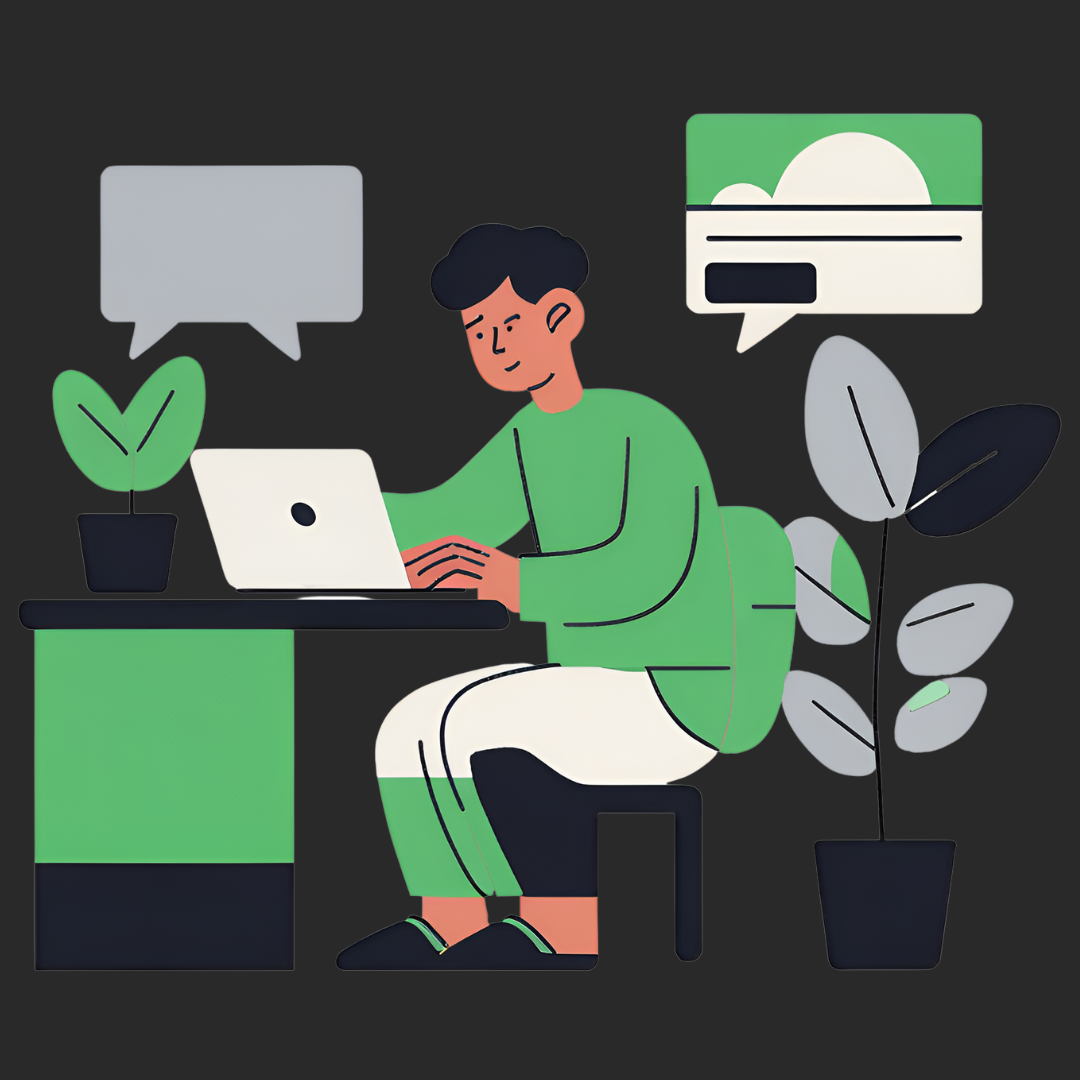
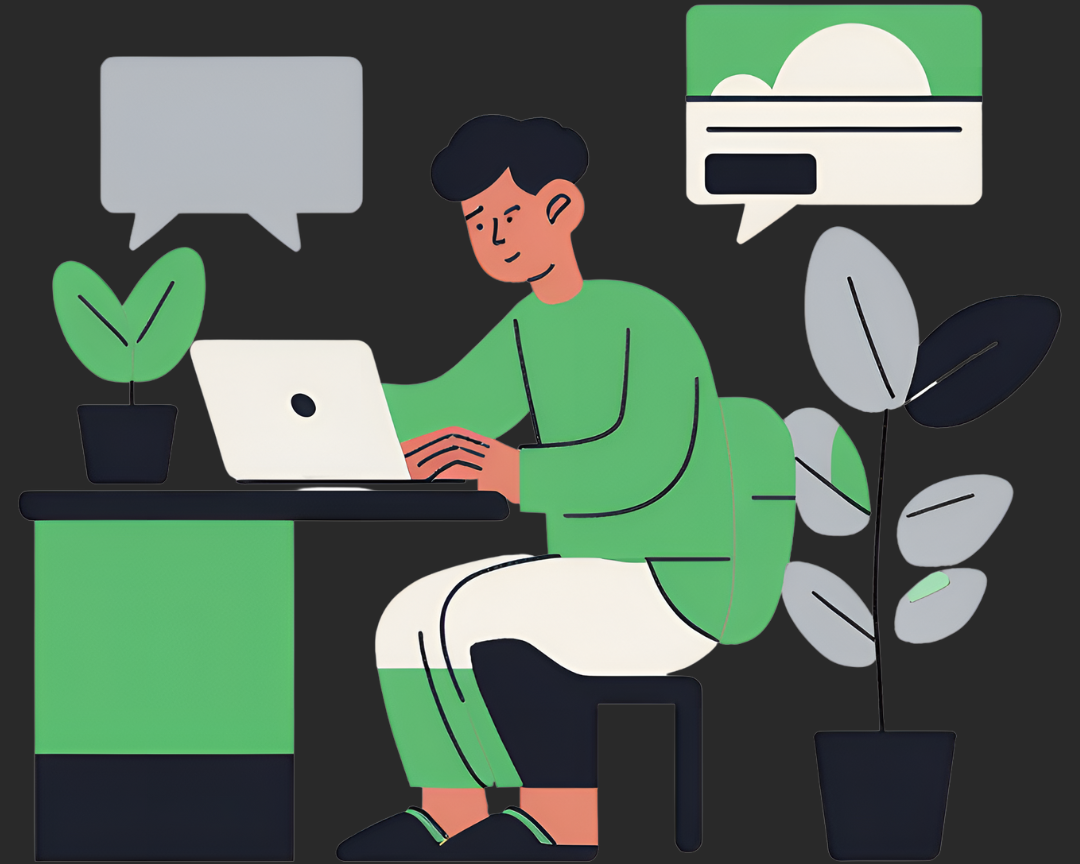
Small fixes
Change filename/crop art

diff --git a/app.py b/app.py
@@ -32,9 +32,9 @@ class App:
 
         # startup hero
         startup_img = customtkinter.CTkImage(dark_image=Image.open("keylocker-dir/flat-character-graphic.png"), 
-        light_image=Image.open("keylocker-dir/flat-character-graphic.png"), size=(300, 300))
+        light_image=Image.open("keylocker-dir/flat-character-graphic.png"), size=(340, 300))
         self.startup_label = customtkinter.CTkLabel(master=self.root, text="", image=startup_img)
-        self.startup_label.place(rely=0.45, relx=0.48)
+        self.startup_label.place(rely=0.4, relx=0.48)
 
         self.startup_desc = customtkinter.CTkLabel(master=self.root, 
             text="A free and easy way to safely\nsecure and manage your\npasswords", 
@@ -43,7 +43,7 @@ class App:
             width=200, 
             height=90,
             justify="left")
-        self.startup_desc.place(relx=0.48, rely=0.3)
+        self.startup_desc.place(relx=0.48, rely=0.27)
 
         # icons
         folder_icon = customtkinter.CTkImage(Image.open("keylocker-dir/folder-icon.png"), size=(22,22))
